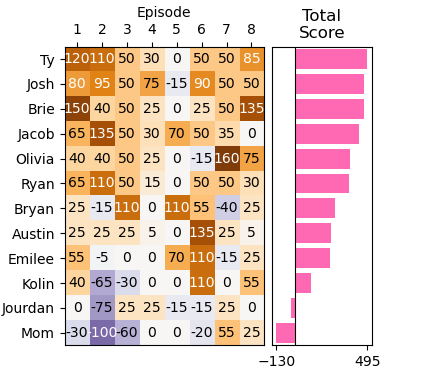
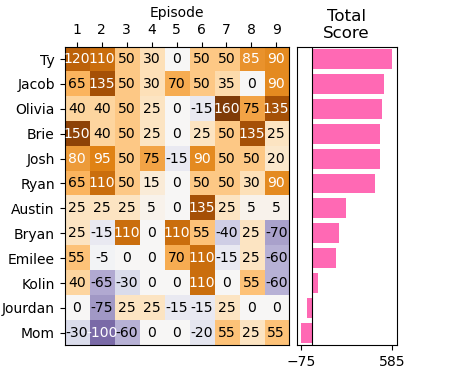
Update the site

diff --git a/seasons/18/index.md b/seasons/18/index.md
@@ -123,11 +123,11 @@ This is how everybody ranked the queens this season:
 
 Here's how everybody is doing overall this season:
 
-|                   |   Ty |   Josh |   Jacob |   Brie |   Ryan |   Olivia |   Bryan |   Austin |   Emilee |   Jourdan |   Kolin |   Mom |
-|:------------------|-----:|-------:|--------:|-------:|-------:|---------:|--------:|---------:|---------:|----------:|--------:|------:|
-| Performance Score |  310 |    300 |     280 |    265 |    240 |      155 |     120 |       80 |       50 |       -25 |     -55 |  -190 |
-| Rank Score        |   35 |     38 |      32 |     17 |     28 |       17 |      33 |       33 |       34 |        52 |      48 |    82 |
-| Total Score       |  345 |    338 |     312 |    282 |    268 |      172 |     153 |      113 |       84 |        27 |      -7 |  -108 |
+|                   |   Josh |   Jacob |   Ty |   Brie |   Olivia |   Ryan |   Emilee |   Austin |   Kolin |   Bryan |   Jourdan |   Mom |
+|:------------------|-------:|--------:|-----:|-------:|---------:|-------:|---------:|---------:|--------:|--------:|----------:|------:|
+| Performance Score |    495 |     525 |  585 |    500 |      510 |    460 |      180 |      250 |      50 |     200 |       -30 |   -75 |
+| Rank Score        |    303 |     245 |  172 |    183 |      165 |    166 |      365 |      290 |     369 |     212 |       216 |   254 |
+| Total Score       |    798 |     770 |  757 |    683 |      675 |    626 |      545 |      540 |     419 |     412 |       186 |   179 |
 
 ![Total Scores](plots/total_scores.png)
 
